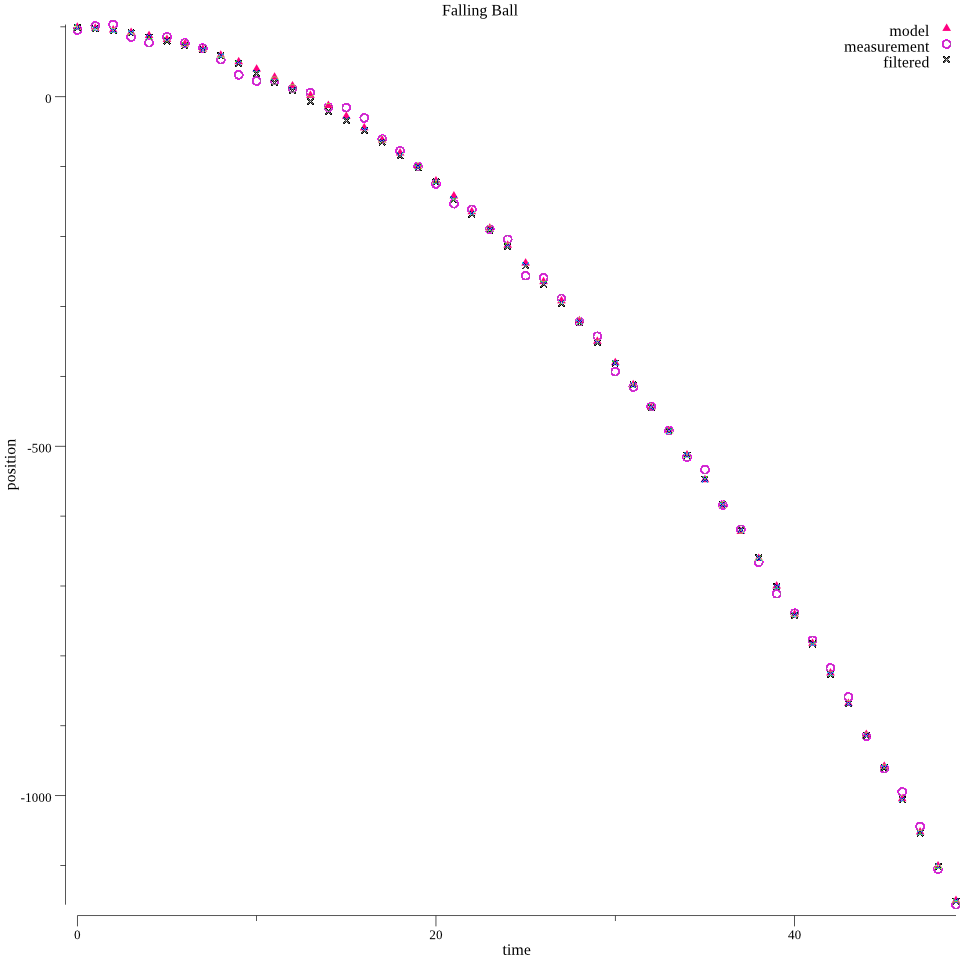
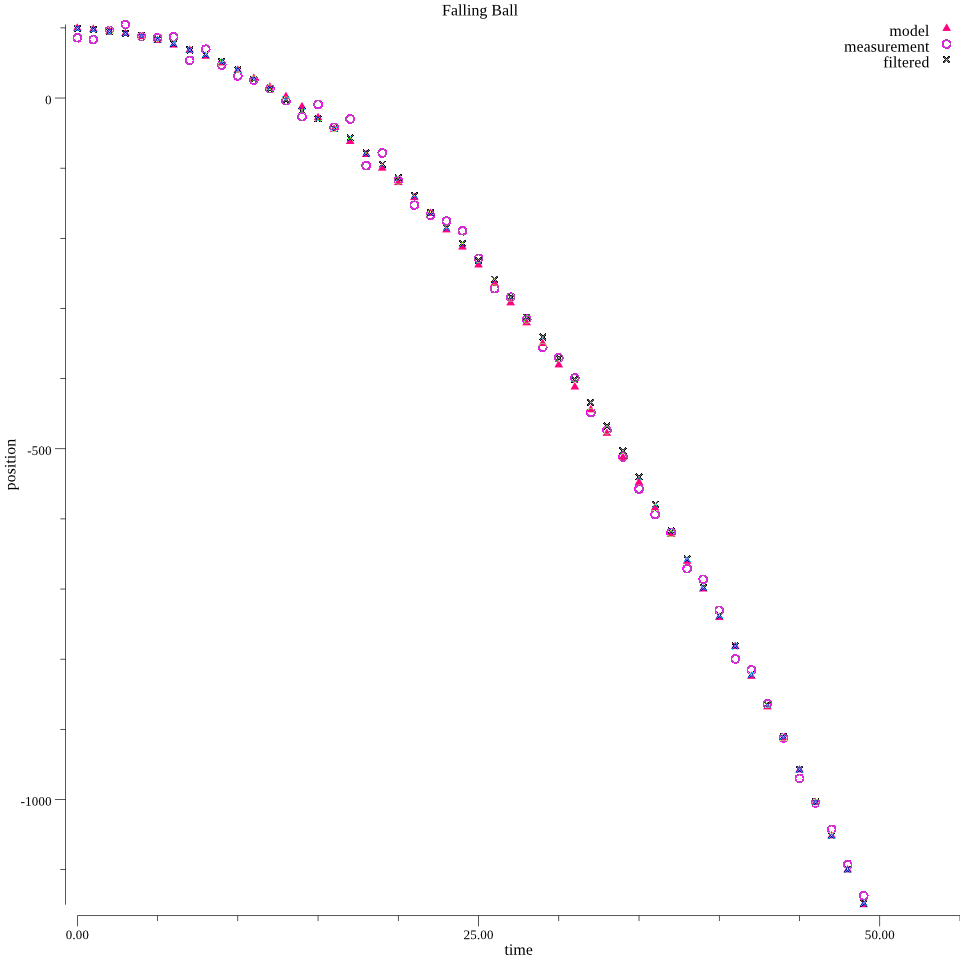
Added max X axis value for better filter operation visibility.

diff --git a/examples/ekf/ekf.go b/examples/ekf/ekf.go
@@ -32,7 +32,9 @@ func NewSystemPlot(model, meas, filter *mat.Dense) (*plot.Plot, error) {
 		log.Fatalf("Failed to create new plot legend")
 	}
 	legend.Top = true
+
 	p.Legend = legend
+	p.X.Max = 55
 
 	// Make a scatter plotter for model data
 	modelData := makePoints(model)

diff --git a/examples/kf/kf.go b/examples/kf/kf.go
@@ -32,7 +32,9 @@ func NewSystemPlot(model, meas, filter *mat.Dense) (*plot.Plot, error) {
 		log.Fatalf("Failed to create new plot legend")
 	}
 	legend.Top = true
+
 	p.Legend = legend
+	p.X.Max = 55
 
 	// Make a scatter plotter for model data
 	modelData := makePoints(model)

diff --git a/examples/ukf/ukf.go b/examples/ukf/ukf.go
@@ -32,7 +32,9 @@ func NewSystemPlot(model, meas, filter *mat.Dense) (*plot.Plot, error) {
 		log.Fatalf("Failed to create new plot legend")
 	}
 	legend.Top = true
+
 	p.Legend = legend
+	p.X.Max = 55
 
 	// Make a scatter plotter for model data
 	modelData := makePoints(model)
